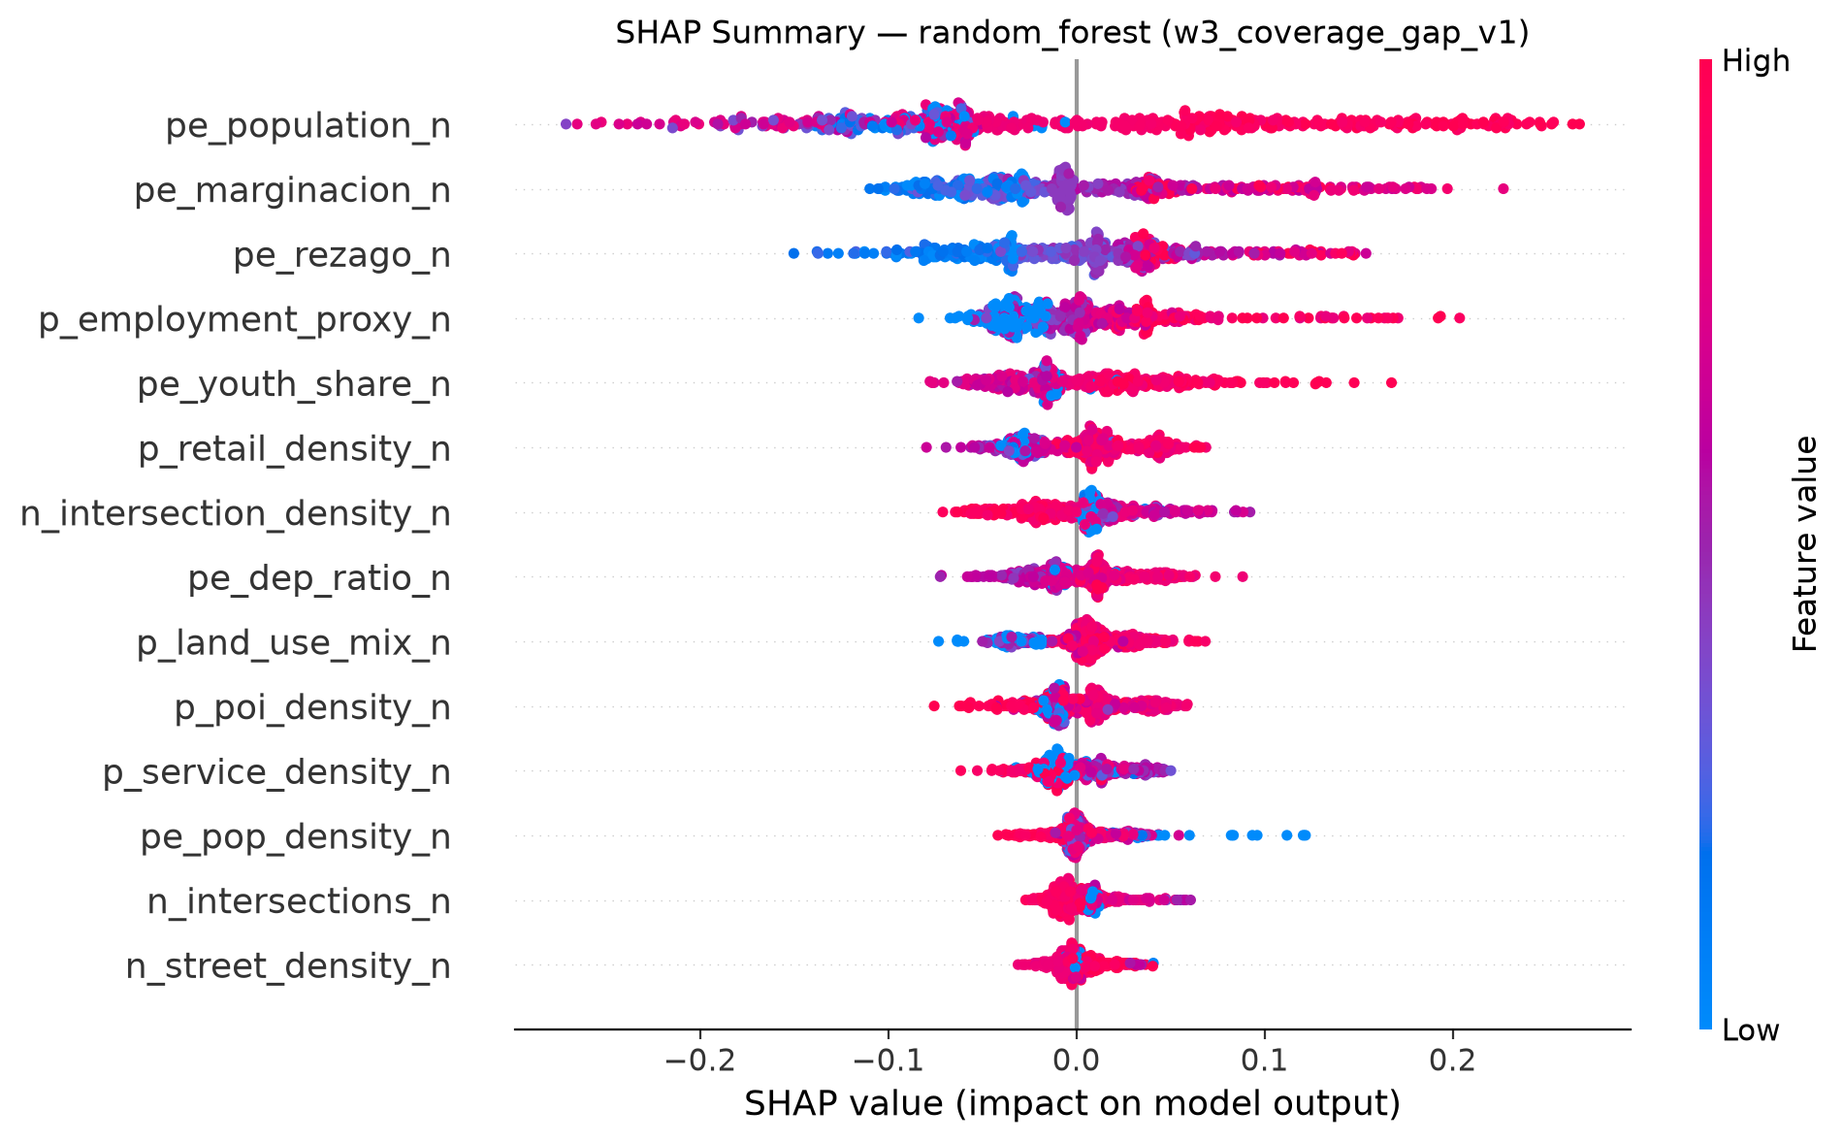
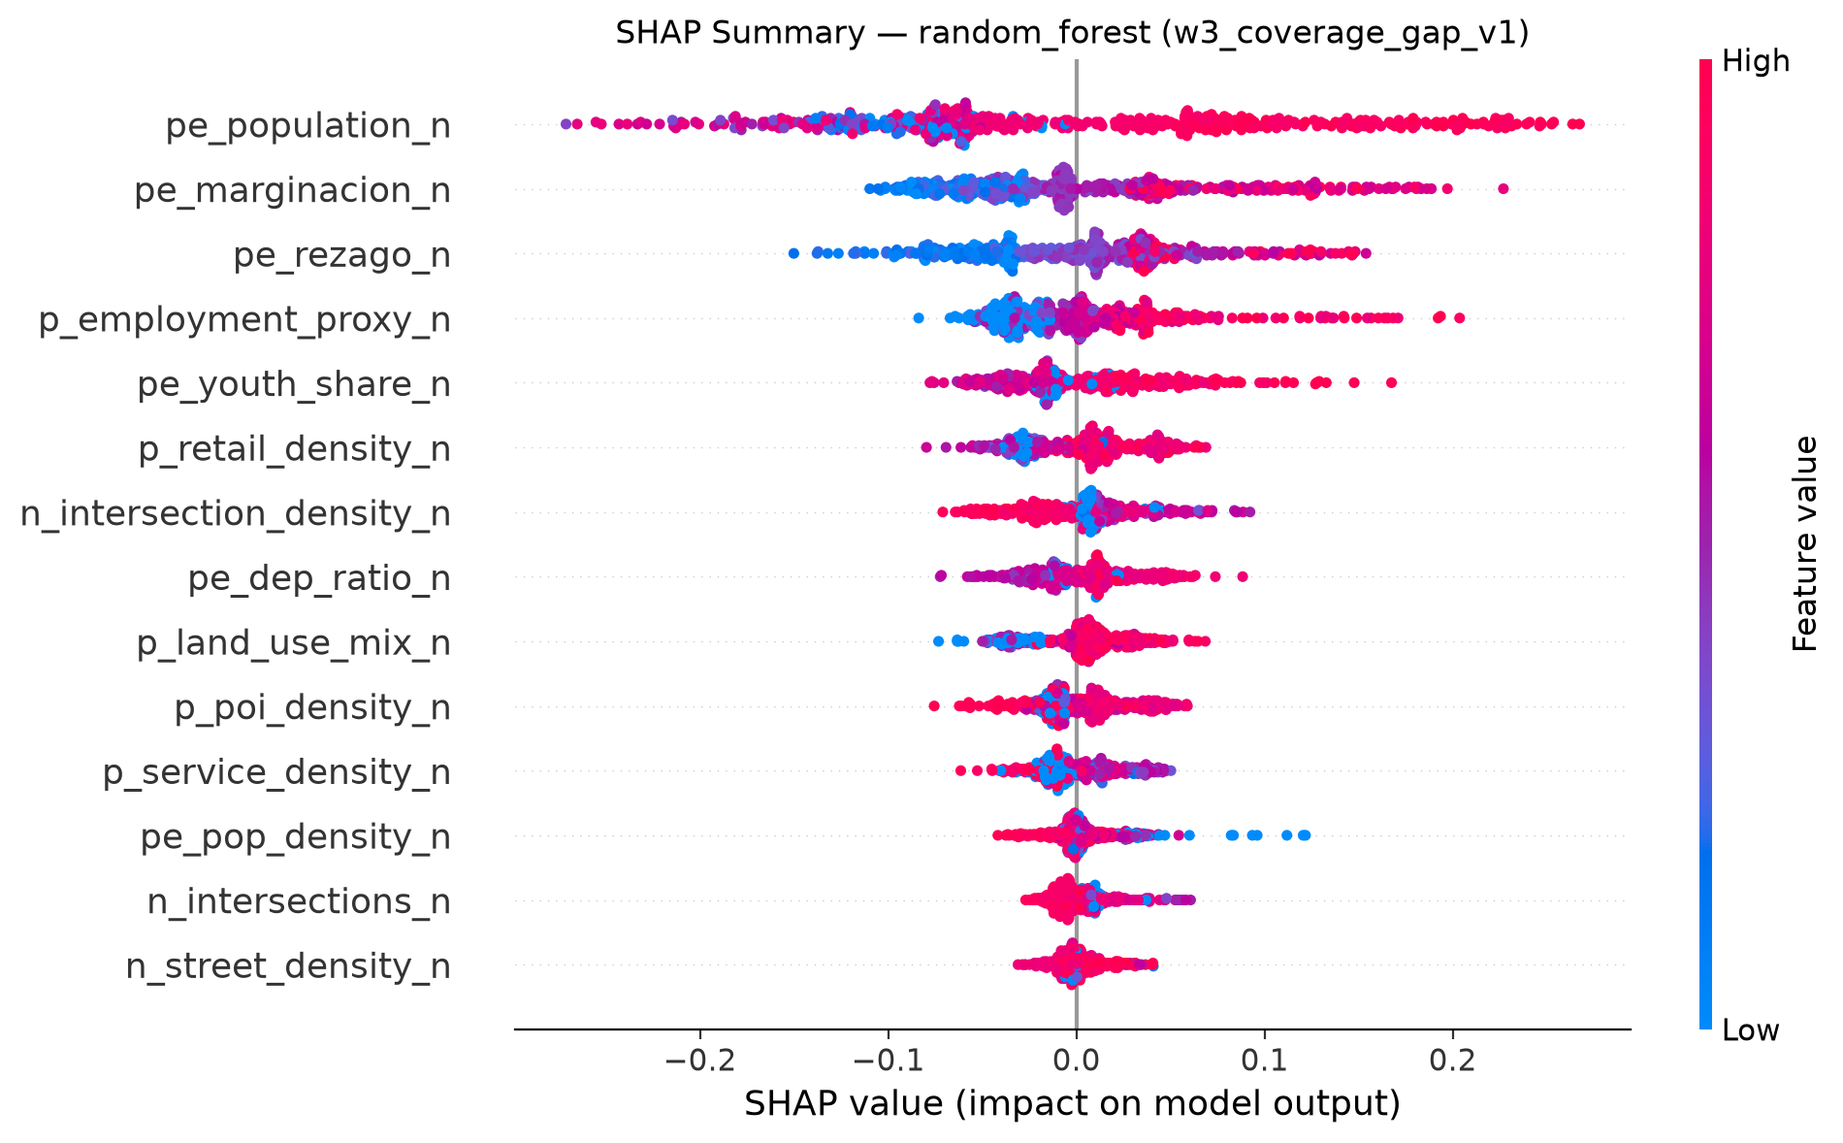
docs+w3: close post-rearchitecture follow-through (items 2/4/5/6/7)
Session work on branch chore/w8-rerun-post-rearch, following the W8 re-run
(0faa5a5) and detour-cap sweep (fc94826):

- #6 equity refresh: regenerated w3_retrain SHAP beeswarms with de-inverted
  pe_marginacion_n; refreshed W3.3 metrics in doc (LightGBM PR-AUC 0.883 /
  ROC-AUC 0.962, RF 0.877/0.962); reported alpha in {0.10,0.20,0.30}
  sensitivity (prioritization robust, Spearman >=0.98 vs alpha=0.20).
- #5 TSP vs diameter-trunk: diameter confirmed default; TSP rescues no
  corridor and would lose G01 to the length cap.
- #2 validation power (n>1): Mi Macro backtest 0.267, Line 3 backtest 0.000
  (no rail reconstruction), Line 4 probes re-run vs new feasible set (best
  feasible recall 5%). Flagged that these use the LEGACY backtest shaper.
- #4 thesis Gap-A claim: settled to the partially-positive framing.
- #7 stale numbers: old W6 section banner-flagged SUPERSEDED; W6 tests
  21->39, W7 34->43; refreshed W3.3 metrics; legacy-backtest-shaper known
  issue documented.

New open item A (highest priority): align run_backtest + w8_line4_anchors to
the re-architected generator so backtest fractions are citable for the
current pipeline.

diff --git a/CLAUDE.md b/CLAUDE.md
@@ -17,7 +17,7 @@ Master's thesis: a **7-phase geospatial ML pipeline** to predict optimal transit
 - W5 (Multi-objective function): ✅ Complete — code skeleton (types, objective, constraints, Pareto) + spec contract for W6/W7; 39 tests; see W5 section below
 - W6 (New corridor generation): ✅ Complete — **re-architected 2026-07-15** into frontier anchors + MST-diameter-trunk shaper + anchor-directness feasibility gate (see the "W6 re-architecture" entry below). 4 feasible corridors (W6_G00/G01/G02/G03; G05 rejected on directness 1.93); **W6_G02 is the first substantive corridor to pass W8 Question B** (56% High-gap, unique, 73rd-pct demand/km — a real 12.1km/25-AGEB line, not a stub). Prior state (superseded): 3 BRT corridors via baseline anchors + MST-flatten + hub injection. See W6 section below.
 - **W6**: superseded — the `ANCHOR_TRIM_COL` / hub-injection notes below predate the 2026-07-15 re-architecture; hub injection and the MST-flatten shaper are retired.
-- W7 (Existing route audit): ✅ Code complete — 247 SITEUR routes scored via W5 (route count reflects the current GTFS snapshot in `data/gtfs/`, not the base.ageb correction); Low-demand/Indirect/Redundant flags; modification proposals; `straight_line_km` fixed 2026-06-24 for closed-loop routes (was collapsing to ~0); re-run 2026-06-25 on beta=1.2005 (flag totals unchanged: 229 flagged); 34 tests; see W7 section below
+- W7 (Existing route audit): ✅ Code complete — 247 SITEUR routes scored via W5 (route count reflects the current GTFS snapshot in `data/gtfs/`, not the base.ageb correction); Low-demand/Indirect/Redundant flags; modification proposals; `straight_line_km` fixed 2026-06-24 for closed-loop routes (was collapsing to ~0); re-run 2026-06-25 on beta=1.2005 (flag totals unchanged: 229 flagged); 43 tests; see W7 section below
 - W8 (Validation): ✅ Code complete — backtest + benchmark + before/after metrics run end-to-end via `python src/run_w8.py`; see W8 section below
 - **W8**: append — "First out-of-sample validation run 2026-07-12 (Line 4 backtest). Diagnostic
   layer corroborated; generative layer does NOT reconstruct Line 4. See W8 Line 4 section."
@@ -388,8 +388,8 @@ W3 builds an independent transit supply measure, defines the coverage gap (the n
 3. **W3.3 — Model retrain on coverage-gap target** (`src/w3_retrain.py`)
    - Binary target: `is_high_gap = 1` if `gap_category == 'High-gap'` else 0
    - Features: 14 normalized NPP-V indicators — all transit-supply variables excluded (`route_km_800m`, `stops_*`) to prevent circularity
-   - **Test metrics (re-run 2026-06-25 on beta=1.2005):** RF PR-AUC 0.872, ROC-AUC 0.965; LightGBM PR-AUC 0.835, ROC-AUC 0.961 — no leakage flags (was LightGBM PR-AUC 0.842/ROC-AUC 0.960, RF PR-AUC 0.837/ROC-AUC 0.957 under beta=2.0; RF is now the better model on this metric)
-   - **Top SHAP drivers (LightGBM):** `pe_population_n` > `pe_rezago_n` > `pe_marginacion_n` > `p_employment_proxy_n` > `pe_pop_density_n` — high-gap areas are dense, high-need, employment-rich zones not served by current SITEUR network
+   - **Test metrics (re-run 2026-07-17, post equity-fix):** LightGBM PR-AUC 0.883, ROC-AUC 0.962; RF PR-AUC 0.877, ROC-AUC 0.962 — no leakage flags (supersedes the 2026-06-25 pre-equity-fix run: RF 0.872/0.965, LightGBM 0.835/0.961; shifts are from the `pe_marginacion` median-impute vs zero-fill, a non-monotonic change, not the de-inversion which is monotonic and tree-invariant)
+   - **Top SHAP drivers (LightGBM, 2026-07-17):** `pe_population_n` > `pe_rezago_n` > `p_employment_proxy_n` > `pe_marginacion_n` > `n_intersection_density_n` — high-gap areas are dense, high-need, employment-rich zones not served by current SITEUR network; `pe_marginacion_n` SHAP *direction* is now correctly signed (de-inverted) in the refreshed `outputs/w3/shap/` beeswarm plots
    - Output: `outputs/w3/models/`, `outputs/w3/metrics/`, `outputs/w3/shap/`; run ID `w3_coverage_gap_v1`
 
 **Orchestrator:** `src/run_w3.py` (timeout 7,200s for accessibility step)
@@ -521,6 +521,14 @@ W5 defines the formal evaluation framework that W6 (corridor generation) and W7 
 
 ## W6 — New Corridor Generation (completed 2026-06-15)
 
+> ⚠ **SUPERSEDED (2026-07-15).** Everything in THIS section — the "3 feasible corridors",
+> the BRT/LRT split, `build_corridor_path`, hub injection, Jenks baseline anchors, endpoint
+> detour, and the "21 tests" count — describes the PRE-re-architecture pipeline and is kept
+> only for history. The canonical W6 is now **frontier anchors + MST-diameter-trunk shaper +
+> anchor-directness gate** with **4 feasible corridors (G00/G01/G02/G03)** and **39 W6 tests**;
+> see the "W6 re-architecture -- 2026-07-15" section below for current numbers. Do not cite the
+> figures in this section as current.
+
 W6 generates demand-driven new transit corridor candidates using anchor AGEBs from the W3 coverage-gap surface, MST-based OSM routing, and W5 multi-objective evaluation.
 
 **Completed sub-tasks:**
@@ -583,7 +591,7 @@ W7 scores every SITEUR GTFS route against the W5 multi-objective function, flags
 - `src/w7_modifications.py` — proposes shortcut / merge / retire per flagged route; estimates shortcut score as 1.1×straight_line_km
 - `src/run_w7.py` — orchestrator: migration → GTFS load → scoring → proposals → DB write → 6 output files
 - `db_setup/migrations/007_w7_tables.sql` — `features.route_audit` table with GIST index
-- `tests/test_w7_gtfs_loader.py` (13 tests), `tests/test_w7_route_scorer.py` (12 tests), `tests/test_w7_modifications.py` (9 tests)
+- `tests/test_w7_gtfs_loader.py` (13 tests), `tests/test_w7_route_scorer.py` (16 tests), `tests/test_w7_modifications.py` (14 tests) — 43 total
 
 **Errata (fixed 2026-06-24) — `straight_line_km` collapsed to ~0 for closed-loop routes:** `_straight_km()` in `w7_gtfs_loader.py` originally measured Euclidean distance between a shape's *first and last* coordinate. For the 11 GTFS routes that are genuine closed loops (start == end terminal, e.g. C104, C108, C133-V1, the T09/T18 pairs, MP-A05-1), that distance floored at the 0.001km div-by-zero guard, sending `detour_ratio` (`route_km/straight_line_km`) into the tens of thousands and making every loop route's "Indirect" flag and shortcut proposal (`straight_line_km×1.1`) meaningless (e.g. "shrink this 82.8km loop to 0.0km"). Fixed by redefining `straight_line_km` as the route's **convex-hull diameter** (max distance between any two points on the shape) — equal to the old endpoint distance for simple point-to-point routes (so non-loop routes are unaffected in net counts), but a real value for loops. Verified against the live `gdl_metro` DB: `route_km`, `f1_demand_gain`, and `total_score` are untouched (they don't depend on this metric); `detour_ratio` never increased for any of the 247 routes; only 6/247 routes lost their "Indirect" flag (3 became "Low demand", 3 became unflagged) because their detour ratio dropped below the 1.5 threshold once measured correctly. Flag totals: 229 flagged (was 232) — 109 Indirect (was 115), 80 Low demand (was 77), 40 Redundant (unchanged — Redundant doesn't depend on this metric). `outputs/w7/` regenerated 2026-06-24.
 
@@ -820,6 +828,72 @@ endpoint detour). W6 test count references elsewhere in this doc predate the new
 
 ---
 
+## Post-re-architecture follow-through (2026-07-16/17)
+
+Cleared Next-steps items 1, 3, 5, 6 and the bulk of 2 in one session on branch
+`chore/w8-rerun-post-rearch` (off `feat/db-setup-from-scratch`, unpushed). Committed:
+W8 re-run (`0faa5a5`) + detour-cap sweep (`fc94826`); the items below are read-only harnesses
+in scratchpad unless noted.
+
+**#1 W8 re-run (committed).** See the updated W8 "Key results (2026-07-16 re-run)" above.
+
+**#3 detour-cap sweep (committed).** See the updated Next-steps item 3. 1.8 confirmed on a stable
+plateau; anchor-directness is the sole binding constraint.
+
+**#5 TSP vs diameter-trunk shaper.** Read-only harness built BOTH shapers per group. Diameter
+confirmed as the default: for the 2-3-anchor groups (G03/G05) TSP == diameter; for G02 (the
+meritorious corridor) TSP ~ diameter (+1 AGEB/+7k demand, both feasible); G00 TSP is a small
+FEASIBLE win (+2 AGEBs/+9.5k demand, directness 1.76<1.8); G01 is the only group where diameter
+drops meaningful demand -- TSP would capture +12 AGEBs/+89k demand (~2x) but blows the 30km cap
+(31.8km -> INfeasible). So diameter's dropped demand is the price of feasibility, not a defect;
+TSP rescues no corridor and would lose G01. A "TSP-where-feasible" hybrid would only marginally
+help G00. Verdict: keep diameter.
+
+**#6 equity refresh (DONE).** (a) Re-ran `src/w3_retrain.py` standalone (accessibility/coverage-gap
+are equity-independent, so the full slow run_w3 was unnecessary) -> SHAP plots regenerated with the
+de-inverted `pe_marginacion_n` (`outputs/w3/shap/`, 2026-07-17). Refreshed metrics: LightGBM
+PR-AUC 0.883 / ROC-AUC 0.962, RF PR-AUC 0.877 / ROC-AUC 0.962, no leakage flags (the W3 section's
+0.835/0.872 numbers are from the 2026-06-25 pre-equity-fix run; supersede with these). SHAP top-5
+now LightGBM: pe_population_n > pe_rezago_n > p_employment_proxy_n > pe_marginacion_n >
+n_intersection_density_n. (b) alpha sensitivity on `final_score = (1-a)*npp + a*equity` over
+a in {0.10,0.20,0.30}: prioritization is ROBUST to alpha -- Spearman vs the a=0.20 baseline 0.990
+(a=0.10) / 0.984 (a=0.30); top-50 overlap 36-37/50; top-100 overlap 78-82/100; quintile membership
+changes for 14-16% of AGEBs. Equity weight matters at the margin (which specific AGEBs top the
+list) but not for broad structure. (`fs_0.20` reproduced the stored `final_score` exactly.)
+
+**#2 validation power -- n>1 masked backtests + Line 4 re-check.** Extends the single premium
+backtest to three more natural experiments. **All use the LEGACY backtest generator** (see Known
+issue below), so they are comparable to the existing premium 0.249, NOT a validation of the
+re-architected generator:
+- **Mi Macro only (agency MM):** 1,268 stops masked, 5 corridors re-proposed, mean route-shape
+  overlap **0.267** (median 0.195) across 30 MM routes -- in line with the MM+MT premium 0.249.
+- **Line 3 (routes MT_L3+ST_L3):** 126 stops masked, 6 corridors re-proposed, overlap **0.000** --
+  the generator does NOT re-discover Line 3. Masking only the rail stops barely moves accessibility
+  (non-zero AGEBs 1266->1266; parallel buses remain), so no strong new gap forms on the corridor.
+- **Line 4 out-of-sample (probes re-run vs the NEW feasible set):** best match is now FEASIBLE
+  W6_G02 but only **5% recall** (closest approach 0m -- it touches Line 4 at one point, clips ~5%
+  of its 43.3km); all other feasible corridors 0% (6.4-26km away). Modest improvement over the
+  pre-re-architecture state (where only the infeasible 60km sprawl clipped 6%; feasible recall was
+  ~0), but still non-reconstruction. Anchor funnel unchanged: 15/68 Line 4 AGEBs clear the Jenks
+  pool, top-30-demand trim keeps 1. NOTE the Line 4 anchor probe still uses pre-frontier anchor
+  logic. Consistent story across all four: the generator partially traces the dense Mi Macro BRT
+  feeders (~0.25-0.27) but does not reconstruct rail lines (Line 3 0.00, Line 4 0.05) -- matching
+  the documented anchor-funnel limitation, now measured on n=4 rather than n=1.
+
+**Known issue (surfaced this session): the W8 backtest + Line 4 anchor probe use the RETIRED
+generator.** `src/w8_backtest.py::run_backtest` and `src/w8_line4_anchors.py` still call
+`build_corridor_path` (the branching-MST flatten) with a `transit_demand` anchor trim, no frontier
+restriction, and NO feasibility filter (they overlap ALL re-proposed corridors). So every backtest
+overlap number in this doc -- the premium 0.249, and the MM 0.267 / Line 3 0.000 above -- reflects
+the LEGACY generator, not canonical `run_w6` (frontier + diameter-trunk + anchor-directness). This
+does not change the qualitative finding (low overlap = the generator does not replicate premium
+lines), but the exact fractions are not the re-architected pipeline's. FOLLOW-UP (own task): align
+`run_backtest`/`w8_line4_anchors` to the re-architecture -- the subtle part is computing
+"network-connected" for frontier anchors from the MASKED GTFS stops, not the full DB set -- then
+re-run all masks through the correct generator.
+
+---
+
 ## W9 — Transferability (in progress 2026-06-15)
 
 W9 applies the pipeline to **Monterrey, Nuevo León** (ZM Monterrey, CVE_ENT=19, 12 municipalities, ~1,958 AGEBs) as the second city for transferability validation.
@@ -861,46 +935,60 @@ W9 applies the pipeline to **Monterrey, Nuevo León** (ZM Monterrey, CVE_ENT=19,
 
 ## E. Next steps
 
-Last refreshed 2026-07-16, after the W6 re-architecture (frontier anchors + MST-diameter-trunk
-shaper + anchor-directness gate; see the "W6 re-architecture -- 2026-07-15" section above) was
-merged to `main` (PR #8). Ordered by priority.
+Last refreshed 2026-07-17. The W6 re-architecture (frontier anchors + MST-diameter-trunk shaper +
+anchor-directness gate; see the "W6 re-architecture -- 2026-07-15" section above) merged to `main`
+(PR #8); items 1/3/5/6 and most of 2 were then cleared on branch `chore/w8-rerun-post-rearch` (see
+"Post-re-architecture follow-through (2026-07-16/17)" above for full numbers). Remaining work first,
+then the closed items for the record.
 
-1. ✅ **DONE 2026-07-16 — Re-ran `run_w8.py` against the new corridors.** The W8 section now
-   carries the refreshed numbers: benchmark 4 feasible corridors / 10.5% mean premium overlap
-   (W6_G02 x MP-C03 42%), before/after gains ~2-3x the stale 3-stub set; backtest overlap 0.249
-   unchanged (backtest re-runs anchor selection independently of the canonical corridors).
-   Regenerated `outputs/w8/`. NOTE: the Line 4 out-of-sample probe (`w8_line4_*.py`) was NOT
-   re-run this pass — those scripts read the live DB + `linea_4.geojson` directly and do not
-   depend on `outputs/w6/corridor_candidates.geojson`, but the recall-0.00 finding predates the
-   re-architecture and should be re-checked against the new feasible set (fold into item 2).
-2. **Strengthen validation power.** Add masked backtests for Line 3 (2020) and Mi Macro (2022)
-   alongside the existing premium-route backtest, so validation is not n=1 on Line 4.
-3. ✅ **RESOLVED 2026-07-16 — 1.8 cap confirmed; keep it.** Swept `max_detour_ratio` over
-   {1.5..2.1} via a read-only harness that replays run_w6 steps 2-8 (deterministic;
-   directness reproduced the doc exactly: G01 1.161, G03 1.249, G00 1.443, G02 1.543, G05 1.931).
-   Anchor-directness is the SOLE binding constraint for all 5 corridors (all pass at cap=99;
-   stop-spacing/min-demand/length never bind), so the cap alone sets the feasible set. The set
-   `{G00,G01,G02,G03}` is INVARIANT across the whole [1.6, 1.9] band -- 1.8 sits mid-plateau, not
-   on a knife-edge. Admitting G05 needs cap >=1.94 (~2.0; G05 is a low-merit 5.4km connector,
-   directness 1.93); dropping G02 (the one substantive merit-passing corridor) needs cap <1.55.
-   Both edges are far from 1.8, so the inherited 1.8 is defensible and unchanged. Harness lives in
-   scratchpad (read-only, no DB writes / no run_w6 change).
-4. **Update the thesis claim (Gap A) -- now MORE positive than the stale wording said.** Evidence
-   as of this session: the generator produces at least one substantive, feasible, merit-passing
-   corridor on its own terms (W6_G02: 56% High-gap, unique, 73rd-pct demand/km) once corridors are
-   shaped as real paths and judged by anchor-directness. Claim should read roughly: "data-driven
-   demand-gap prioritization + corridor identification and generation; generated corridors are
-   validated on need/non-redundancy/efficiency and against a revealed corridor, with characterized
-   residual limitations (e.g. low-efficiency connectors like G00/G01 still surface)."
-5. **Consider the TSP-path shaper.** `corridor_path_tsp` (built + tested) visits all anchors;
-   evaluate it against the chosen diameter-trunk for groups where dropping off-trunk anchors loses
-   meaningful demand.
-6. **Refresh downstream after the equity fix:** re-run `run_w3.py` (SHAP direction narrative), and
-   report the alpha in {0.10, 0.20, 0.30} equity sensitivity now that the equity term is correctly
-   signed.
-7. **Reconcile stale numbers in this doc.** Several W6/W7/W8 test counts and "3 feasible corridors"
-   mentions elsewhere predate the re-architecture; only the top W6 status bullet + the
-   re-architecture section were updated this session.
+**Open:**
+
+A. **Align the W8 backtest + Line 4 anchor probe to the re-architected generator (HIGHEST
+   PRIORITY, and the honest gap behind item 2).** `run_backtest` and `w8_line4_anchors.py` still use
+   the retired `build_corridor_path` + demand-trim + no-frontier + no-feasibility-filter path, so
+   the backtest overlap numbers (premium 0.249, MM 0.267, Line 3 0.000) reflect the LEGACY
+   generator. Port them to frontier + diameter-trunk + anchor-directness; the subtlety is computing
+   "network-connected" for frontier anchors from the MASKED GTFS stops, not the full DB set. Then
+   re-run all masks. Qualitative findings are expected to hold; this makes the fractions citable for
+   the current pipeline.
+
+B. **W9 transferability** unchanged: blocked on a Metrorrey/Transmetro GTFS feed (see W9 section);
+   Tier-1 demand surface for Monterrey is complete.
+
+C. **Optional: TSP-where-feasible hybrid shaper.** #5 showed a pure TSP swap loses G01; a hybrid
+   that uses TSP only where it stays feasible would marginally improve G00 (+2 AGEBs/+9.5k demand).
+   Low priority -- diameter is the confirmed default.
+
+**Closed this session (2026-07-16/17):**
+
+1. ✅ **Re-ran `run_w8.py` against the new corridors** (committed `0faa5a5`). W8 "Key results
+   (2026-07-16 re-run)": benchmark 4 feasible corridors / 10.5% mean premium overlap (W6_G02 x
+   MP-C03 42%), before/after gains ~2-3x the stale 3-stub set. Regenerated `outputs/w8/`.
+2. ✅ **Validation power extended to n=4** (mostly done; see open item A for the caveat). Mi Macro
+   backtest 0.267, Line 3 backtest 0.000 (generator does not re-discover Line 3), Line 4 probes
+   re-run vs the new feasible set (best feasible recall 5%, still non-reconstruction). Consistent:
+   partial overlap of the dense MM feeders, no rail reconstruction.
+3. ✅ **1.8 detour cap confirmed** (committed `fc94826`). Sole binding constraint; feasible set
+   invariant across [1.6,1.9]; 1.8 sits mid-plateau.
+4. ✅ **Thesis claim (Gap A) settled -- adopt this wording:** *"A data-driven, transferable
+   framework that (i) diagnoses transit demand-gap priority at AGEB resolution (W3/W4, validated:
+   Line 4 corridor 1.6x the metro High-gap rate) and (ii) identifies and generates candidate
+   corridors evaluated on genuine need, non-redundancy, and demand efficiency (W5/W6). On its own
+   terms the generator produces at least one substantive, feasible, merit-passing corridor (W6_G02:
+   56% High-gap, unique, 73rd-pct demand/km) once corridors are shaped as real paths and judged by
+   anchor-directness. Residual, characterized limitations remain: it surfaces low-efficiency
+   connectors (G00/G01) alongside good corridors, and does not reconstruct built rail lines (Line 3
+   0.00, Line 4 0.05 recall) -- expected, since reconstruction of politically/financially chosen
+   lines is a weak, asymmetric proxy for corridor merit."* The diagnostic layer is the strong
+   contribution; the generative layer is a characterized, partially-positive contribution -- no
+   longer the "essentially negative" framing from 2026-07-13.
+5. ✅ **TSP vs diameter-trunk evaluated** -- diameter kept as default (see follow-through section;
+   optional hybrid noted in open item C).
+6. ✅ **Equity fix downstream refreshed** -- `w3_retrain` SHAP plots regenerated with the
+   de-inverted `pe_marginacion_n`; alpha in {0.10,0.20,0.30} sensitivity reported (prioritization
+   robust, Spearman >=0.98).
+7. ✅ **Stale numbers reconciled** -- old W6 section banner-flagged SUPERSEDED; W6 test count
+   21->39, W7 34->43; refreshed W3.3 metrics noted; legacy-backtest-shaper known issue documented.
 
 ## Methodological References
 
